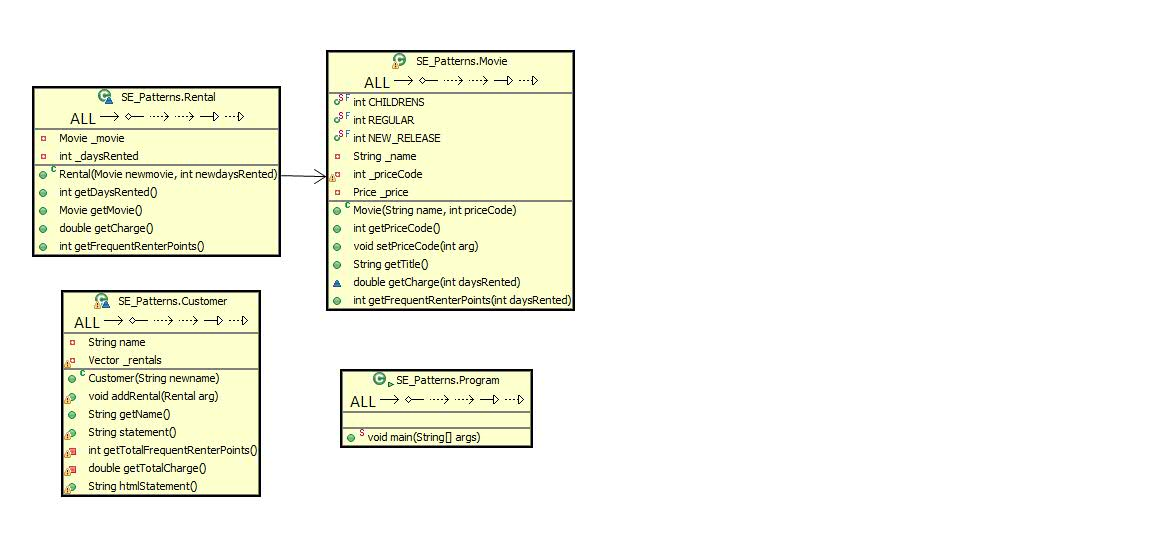
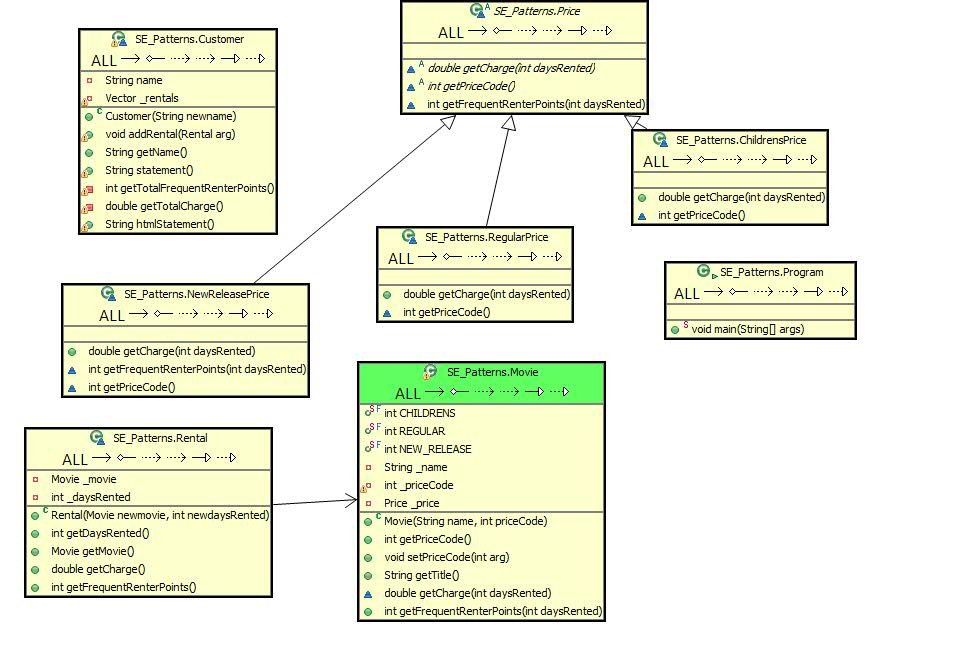
Replace Conditional with Polymorphism

diff --git a/src/SE_Patterns/Price.java b/src/SE_Patterns/Price.java
@@ -1,42 +1,51 @@
 package SE_Patterns;
 
 abstract class Price {
+	abstract double getCharge(int daysRented);
+
 	abstract int getPriceCode();
 
-	public double getCharge(int daysRented) {
-		double result = 0;
-		switch (getPriceCode()) {
-		case Movie.REGULAR:
-			result += 2;
-			if (daysRented > 2)
-				result += (daysRented - 2) * 1.5;
-			break;
-		case Movie.NEW_RELEASE:
-			result += daysRented * 3;
-			break;
-		case Movie.CHILDRENS:
-			result += 1.5;
-			if (daysRented > 3)
-				result += (daysRented - 3) * 1.5;
-			break;
-		}
-		return result;
+	int getFrequentRenterPoints(int daysRented) {
+		return 1;
 	}
 }
 
 class ChildrensPrice extends Price {
+	public double getCharge(int daysRented) {
+		double result = 1.5;
+		if (daysRented > 3)
+			result += (daysRented - 3) * 1.5;
+		return result;
+	}
+
+	@Override
 	int getPriceCode() {
 		return Movie.CHILDRENS;
 	}
 }
 
 class NewReleasePrice extends Price {
+	public double getCharge(int daysRented) {
+		return daysRented * 3;
+	}
+
+	int getFrequentRenterPoints(int daysRented) {
+		return (daysRented > 1) ? 2 : 1;
+	}
+	
 	int getPriceCode() {
 		return Movie.NEW_RELEASE;
 	}
 }
 
 class RegularPrice extends Price {
+	public double getCharge(int daysRented) {
+		double result = 2;
+		if (daysRented > 2)
+			result += (daysRented - 2) * 1.5;
+		return result;
+	}
+
 	int getPriceCode() {
 		return Movie.REGULAR;
 	}
